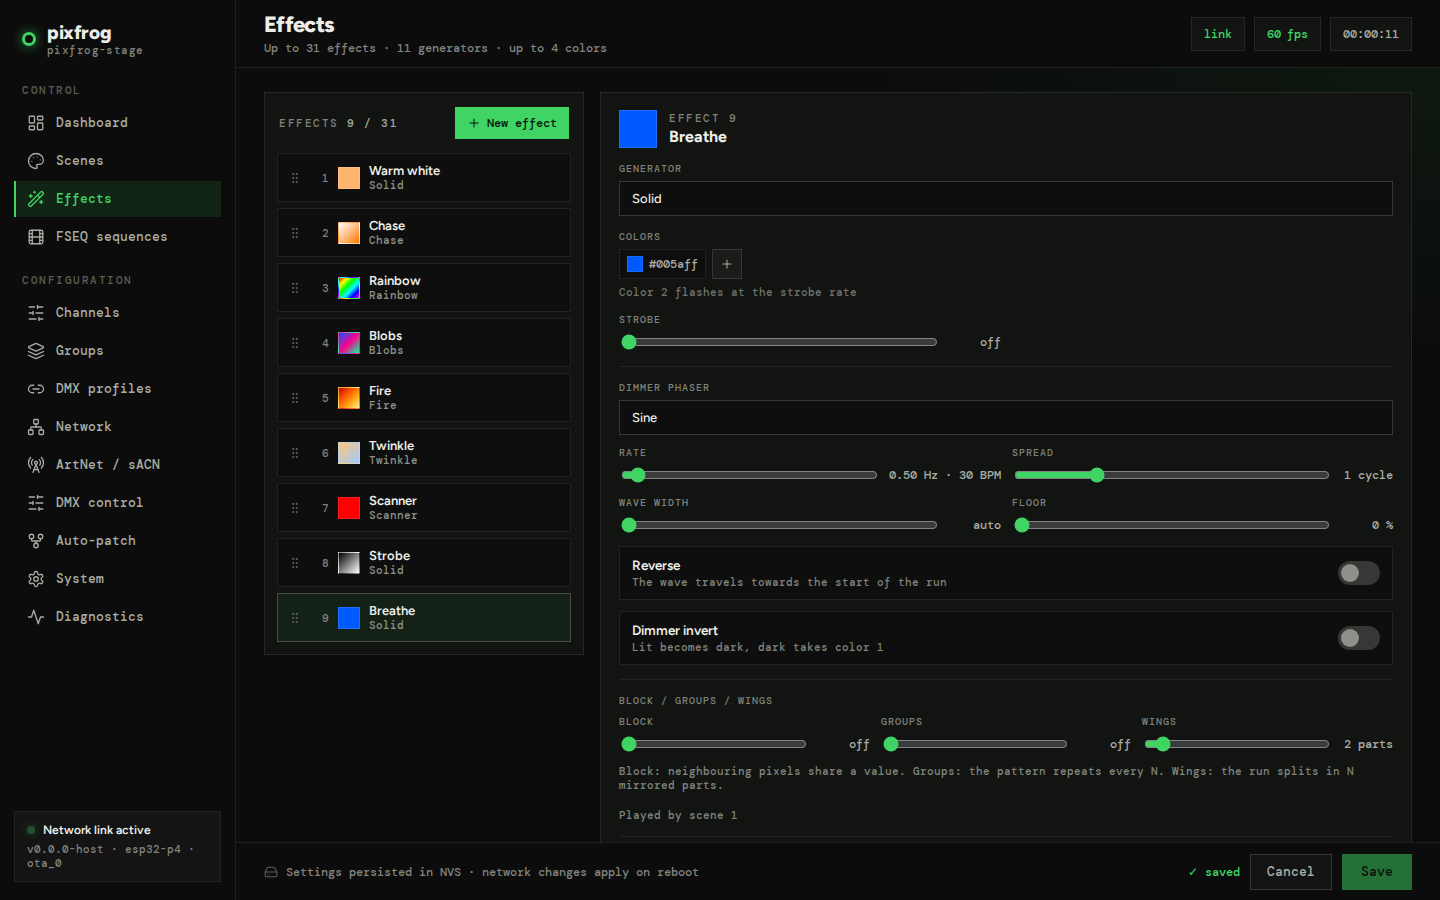
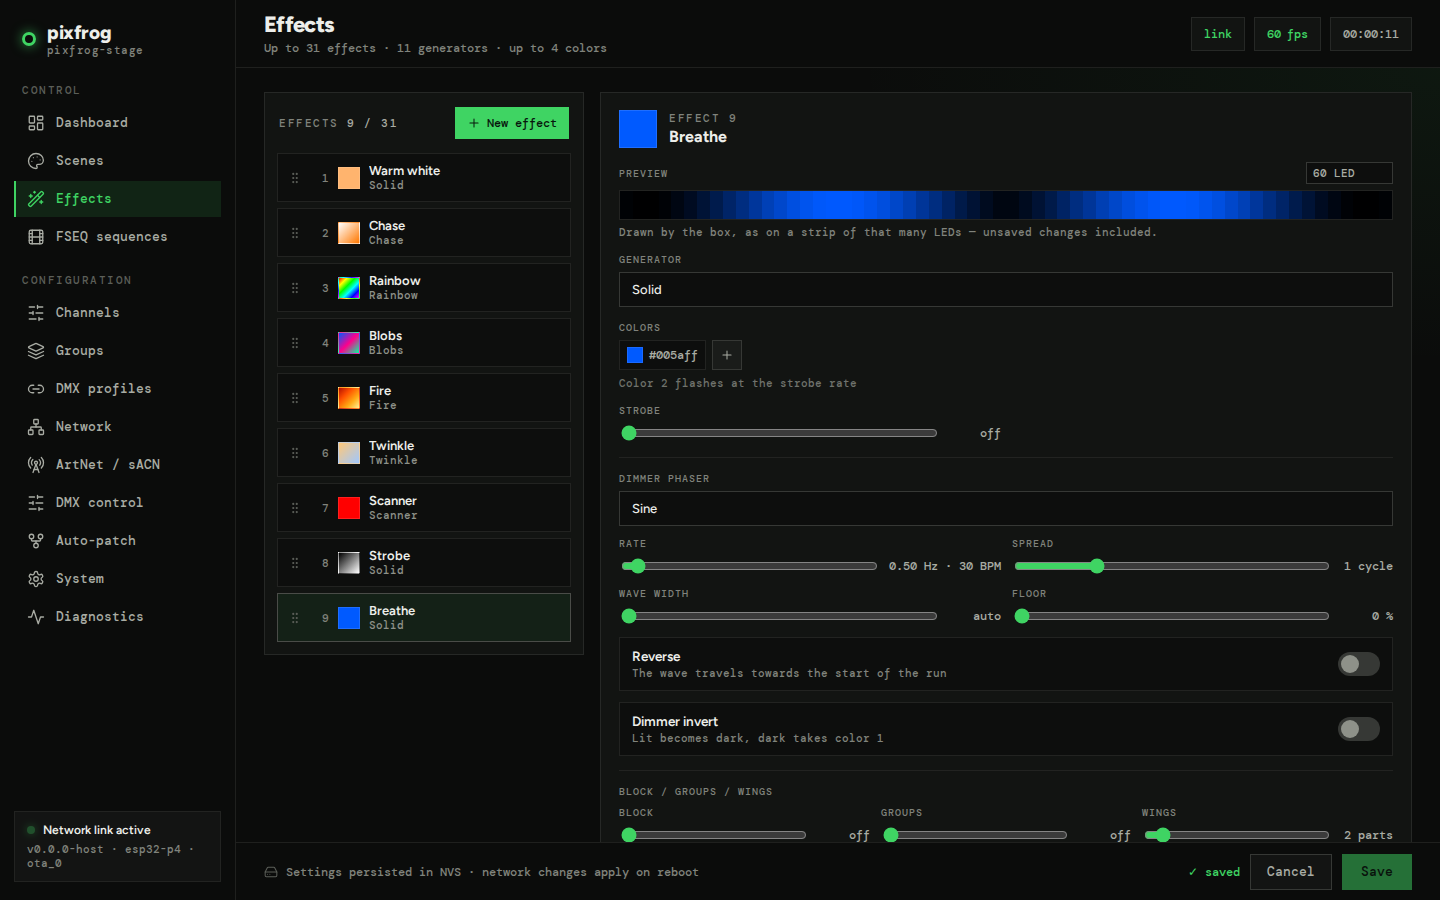
feat(web): an effect preview in the editor, drawn by the box
The effect editor shows the look on a strip of 30, 60 or 144 LEDs, animated.
The frames come from the box: POST /api/effect/preview renders a second of
them with fill_effect_run — the renderer of the outputs — for the effect as
edited, so the strip follows the sliders before anything is saved. Read-only,
no password. The demo approximates it in mock.js.

diff --git a/components/web_config/src/web_ui.html b/components/web_config/src/web_ui.html
@@ -998,7 +998,7 @@ var FR={
   'Fixture profile (OFL)':'Profil de fixture (OFL)','Save first: the file is made from the saved profile':'Enregistrez d’abord : le fichier est fait à partir du profil enregistré',
   'DMX control: no pixel data, each fixture on its profile':'Contrôle DMX : pas de données pixel, chaque fixture sur son profil','DMX profile':'Profil DMX',
   '{n} fixtures':'{n} fixtures','No fixture listed: the whole strip is one fixture, on profile 1':'Aucune fixture listée : tout le ruban est une fixture, sur le profil 1',
-  'PARTS':'PARTIES','Add a part':'Ajouter une partie','Remove this part':'Retirer cette partie','missing effect':'effet manquant',
+  'PREVIEW':'APERÇU','LEDs in the preview':'LEDs de l’aperçu','Drawn by the box, as on a strip of that many LEDs — unsaved changes included.':'Dessiné par le boîtier, comme sur un ruban de ce nombre de LEDs — modifications non enregistrées comprises.','PARTS':'PARTIES','Add a part':'Ajouter une partie','Remove this part':'Retirer cette partie','missing effect':'effet manquant',
   'No part: this scene plays nowhere':'Aucune partie : cette scène ne joue nulle part',
   'Each part plays one effect on its outputs; an output belongs to one part.':'Chaque partie joue un effet sur ses sorties ; une sortie n’appartient qu’à une partie.',
   'Scene added':'Scène ajoutée','Scene deleted':'Scène supprimée','Scene moved':'Scène déplacée','Scene duplicated':'Scène dupliquée',
@@ -1220,6 +1220,50 @@ function cardFooter(dup,del){
 }
 // Scenes whose parts play effect index i (0-based), as "1, 4".
 function fxUsers(i){ var a=[]; SCENES.forEach(function(sc,k){ if(sc.parts.some(function(p){ return p.effect===i; })) a.push(k+1); }); return a; }
+/* Effect preview: the box draws the look itself (POST /api/effect/preview —
+   the renderer of the outputs), a second of frames per request; the page
+   plays them and asks for the next second before they run out. The request
+   carries the effect as edited, so the strip follows the sliders unsaved. */
+var FXP={px:60,fps:30,q:[],f:0,next:0,busy:false,key:'',err:0,timer:null,last:null};
+var FXP_SIZES=[30,60,144];
+function fxPreviewHTML(){
+  var opts=FXP_SIZES.map(function(n){ return '<option value="'+n+'"'+(n===FXP.px?' selected':'')+'>'+n+' LED</option>'; }).join('');
+  return '<div><div style="display:flex;align-items:center;gap:8px"><div class="eyebrow-sm" style="flex:1;margin:0">'+t('PREVIEW')+'</div>'
+    +'<select data-fx-pvsize title="'+esc(t('LEDs in the preview'))+'" style="background:var(--well);border:1px solid var(--line-3);color:var(--fg-2);border-radius:0;padding:3px 6px;font:500 11px \'DM Mono\'">'+opts+'</select></div>'
+    +'<canvas data-fx-preview width="'+FXP.px+'" height="1" style="display:block;width:100%;height:30px;margin-top:6px;background:#050605;border:1px solid var(--line);image-rendering:pixelated"></canvas>'
+    +'<div class="hint" style="margin-top:5px">'+esc(t('Drawn by the box, as on a strip of that many LEDs — unsaved changes included.'))+'</div></div>';
+}
+// What the preview shows: the look, not its name.
+function fxpKey(){ var e=EFFECTS[curEffect]; if(!e) return ''; var b=effectBody(e); delete b.name; return FXP.px+JSON.stringify(b); }
+function fxpDraw(rgb){
+  var cv=document.querySelector('canvas[data-fx-preview]'); if(!cv||!rgb) return;
+  var n=rgb.length/3; if(cv.width!==n) cv.width=n;
+  var cx=cv.getContext('2d'), img=cx.createImageData(n,1);
+  for(var p=0;p<n;p++){ img.data[p*4]=rgb[p*3]; img.data[p*4+1]=rgb[p*3+1]; img.data[p*4+2]=rgb[p*3+2]; img.data[p*4+3]=255; }
+  cx.putImageData(img,0,0);
+}
+function fxpFetch(){
+  var e=EFFECTS[curEffect]; if(!e||FXP.busy) return;
+  var key=FXP.key, px=FXP.px, t0=FXP.next, body=effectBody(e);
+  FXP.busy=true;
+  fetch('/api/effect/preview',{method:'POST',headers:{'Content-Type':'application/json'},body:JSON.stringify({effect:body,pixels:px,frames:FXP.fps,fps:FXP.fps,t:t0})})
+    .then(function(r){ if(!r.ok) throw new Error('http'); return r.arrayBuffer(); })
+    .then(function(buf){ FXP.busy=false; FXP.err=0; if(key!==FXP.key) return;  // edited meanwhile: asked again on the next tick
+      var all=new Uint8Array(buf), fb=px*3; for(var i=0;i+fb<=all.length;i+=fb) FXP.q.push(all.subarray(i,i+fb)); FXP.next=t0+1000; })
+    .catch(function(){ FXP.busy=false; FXP.err=Date.now(); });
+}
+function fxpTick(){
+  if(curScreen!=='effects'||document.hidden||!EFFECTS[curEffect]) return;
+  var key=fxpKey();
+  if(key!==FXP.key){ FXP.key=key; FXP.q=[]; }  // another look: drop what was queued
+  if(FXP.q.length) FXP.last=FXP.q.shift();
+  fxpDraw(FXP.last);  // a rebuilt card gets the last frame back at once
+  if(FXP.q.length<FXP.fps/2 && !FXP.busy && Date.now()-FXP.err>2000) fxpFetch();
+}
+function fxpRun(on){
+  if(FXP.timer){ clearInterval(FXP.timer); FXP.timer=null; }
+  if(on){ FXP.q=[]; FXP.key=''; FXP.timer=setInterval(fxpTick,Math.round(1000/FXP.fps)); }
+}
 function effectCardHTML(e){
   var fx=fxOf(e);
   var opts=FX.map(function(f,i){ return '<option value="'+i+'"'+(i===e.gen?' selected':'')+'>'+esc(t(f.n))+'</option>'; }).join('');
@@ -1238,6 +1282,7 @@ function effectCardHTML(e){
     +'<span data-role="bigsw" style="width:38px;height:38px;border-radius:0;background:'+fxSwatch(e)+';flex:none;border:1px solid rgba(255,255,255,.12)"></span>'
     +'<div style="flex:1;min-width:0"><div class="eyebrow">'+t('EFFECT')+' '+e.n+'</div>'
     +'<input data-fx-name="'+e.n+'" value="'+esc(e.name)+'" placeholder="'+esc(t('Unnamed effect — click to name'))+'" maxlength="15" style="'+NAME_STYLE+'"/></div></div>'
+    +fxPreviewHTML()
     +'<div><div class="eyebrow-sm">'+t('GENERATOR')+'</div><select data-fx-gen="'+e.n+'" style="'+SEL_STYLE+'">'+opts+'</select></div>'
     +colsHtml
     +'<div style="display:grid;grid-template-columns:1fr 1fr;gap:11px">'+sliders+'</div>'
@@ -1543,6 +1588,7 @@ function go(name){
   if(name==='fseq'){ loadFseq(); loadPlaylist(); }
   if(diagTimer){ clearInterval(diagTimer); diagTimer=null; }
   if(name==='diag'){ pollDiag(); diagTimer=setInterval(pollDiag,1500); }
+  fxpRun(name==='effects');
 }
 function navStyle(el,active){
   if(el.tagName!=='DIV'||!el.hasAttribute('data-nav')) return;
@@ -2704,6 +2750,7 @@ function onInput(e){
   if(t.hasAttribute&&t.hasAttribute('data-sc-group')){ var gs=+t.getAttribute('data-sc-group'); SCENES[gs-1].group=parseInt(t.value,10); markDirty('scene'+(gs-1)); renderScene(gs); return; }
   if(t.hasAttribute&&t.hasAttribute('data-pt-rev')){ SCENES[curScene].parts[+t.getAttribute('data-pt-rev')].rev=t.checked; markDirty('scene'+curScene); return; }
   if(t.hasAttribute&&t.hasAttribute('data-pt-mode')){ SCENES[curScene].parts[+t.getAttribute('data-pt-mode')].mode=t.value; markDirty('scene'+curScene); renderScene(curScene+1); return; }
+  if(t.hasAttribute&&t.hasAttribute('data-fx-pvsize')){ FXP.px=parseInt(t.value,10)||60; return; }
   if(t.hasAttribute&&t.hasAttribute('data-fx-name')){ var en=+t.getAttribute('data-fx-name'); EFFECTS[en-1].name=t.value; markDirty('fx'+(en-1)); renderEffectList(); return; }
   if(t.hasAttribute&&t.hasAttribute('data-fx-speed')){ var sn=+t.getAttribute('data-fx-speed'); EFFECTS[sn-1].speed=parseInt(t.value,10)||0; var sv=document.querySelector('[data-fx-speedval="'+sn+'"]'); if(sv) sv.textContent=speedText(EFFECTS[sn-1]); markDirty('fx'+(sn-1)); return; }
   if(t.hasAttribute&&t.hasAttribute('data-fx-param')){ var pn=+t.getAttribute('data-fx-param'); EFFECTS[pn-1].param=parseInt(t.value,10)||0; var pv=document.querySelector('[data-fx-paramval="'+pn+'"]'); if(pv) pv.textContent=paramText(EFFECTS[pn-1]); markDirty('fx'+(pn-1)); return; }

diff --git a/tools/demo/mock.js b/tools/demo/mock.js
@@ -145,6 +145,7 @@
       });
       return ok({ next_free: uni, universes: used, pool: 72 });
     }
+    if (p === '/api/effect/preview') return { __bytes: previewClip(body) };
     if ((m = p.match(/^\/api\/effect\/(\d+)(\/delete)?$/))) {
       var fi = +m[1];
       if (!S.config.effects[fi]) return bad(404, 'no such effect');
@@ -287,6 +288,26 @@
     var i = Math.floor(h * 6) % 6, f = h * 6 - Math.floor(h * 6), q = 1 - f;
     return [[1, f, 0], [q, 1, 0], [0, 1, f], [0, q, 1], [f, 0, 1], [1, 0, q]][i].map(function (x) { return x * 255; });
   }
+  // One pixel of an effect, roughly: the demo has no firmware to draw it.
+  function fxPixel(fx, k, n, now) {
+    var cols = (fx && fx.colors && fx.colors.length ? fx.colors : ['#000000']).map(hex);
+    if (!fx || fx.generator === FX_SOLID) return cols[0];
+    if (fx.generator === 2) return hsv(((k / n) + now / 4000) % 1);
+    return cols[Math.floor(k / 6 + now / 300) % cols.length];
+  }
+  // The effect editor's preview (POST /api/effect/preview): frames × pixels RGB.
+  function previewClip(body) {
+    body = body || {};
+    var fx = Object.assign({}, S.config.effects[body.index] || { generator: FX_SOLID, colors: ['#ffffff'] }, body.effect || {});
+    var n = Math.min(144, Math.max(1, body.pixels || 60)), frames = Math.min(60, Math.max(1, body.frames || 30));
+    var fps = body.fps || 30, t0 = body.t || 0, out = new Uint8Array(frames * n * 3), at = 0;
+    for (var f = 0; f < frames; ++f)
+      for (var k = 0; k < n; ++k) {
+        var rgb = fxPixel(fx, k, n, t0 + f * 1000 / fps);
+        out[at++] = rgb[0]; out[at++] = rgb[1]; out[at++] = rgb[2];
+      }
+    return out;
+  }
   // What output `o` shows now, as up to 64 RGB samples (the firmware's
   // /api/ws preview): identify blink, its scene, else a moving rainbow as if a
   // desk were sending.
@@ -307,10 +328,7 @@
     for (k = 0; k < n; ++k) {
       var rgb;
       if (sc) {
-        var cols = (fx && fx.colors && fx.colors.length ? fx.colors : ['#000000']).map(hex);
-        if (!fx || fx.generator === FX_SOLID) rgb = cols[0];
-        else if (fx.generator === 2) rgb = hsv(((k / n) + now / 4000) % 1);
-        else rgb = cols[Math.floor(k / 6 + now / 300) % cols.length];
+        rgb = fxPixel(fx, k, n, now);
       } else {
         rgb = hsv(((k / n) * 0.6 + o / 8 + now / 9000) % 1);
       }
@@ -338,6 +356,7 @@
     var status = r && r.__status ? r.__status : 200;
     var text = r && r.__text !== undefined ? r.__text : JSON.stringify(r);
     var type = r && r.__type ? r.__type : (r && r.__status ? 'text/plain' : 'application/json');
+    if (r && r.__bytes) return { status: 200, text: r.__bytes, type: 'application/octet-stream' };
     return { status: status, text: text, type: type };
   }
   var realFetch = window.fetch.bind(window);

diff --git a/components/web_config/src/api_show.cpp b/components/web_config/src/api_show.cpp
@@ -827,12 +827,61 @@ static char g_scene_body[640];
 //                               effects shift down by one, the scenes follow
 // POST /api/effects/add         append (optional effect JSON body) → {"index":n}
 // POST /api/effects/move        {"from":a,"to":b}
+// POST /api/effect/preview      {"effect":{…}, "index":n, "pixels":p, "frames":f,
+//                               "fps":r, "t":ms} → f × p × 3 bytes of RGB
+
+// The effect editor's preview: `frames` frames of an effect on `pixels` RGB
+// pixels, `fps` apart from time `t`, drawn by the renderer the outputs use.
+// The look is the bank's effect `index` (else a plain white one) with the
+// fields of "effect" over it, so unsaved edits show. Changes nothing: no
+// password asked.
+constexpr uint16_t kPreviewMaxPixels = 144;
+constexpr uint16_t kPreviewMaxFrames = 60;
+
+static esp_err_t handle_effect_preview(httpd_req_t* req) {
+    if (!read_body(req, g_scene_body, sizeof(g_scene_body) - 1))
+        return send_err(req, 400, "body too large or empty");
+    cJSON* j = cJSON_Parse(g_scene_body);
+    if (!j) return send_err(req, 400, "invalid JSON");
+    config::Effect e{};
+    e.num_colors = 1;
+    std::memset(e.colors[0], 255, 3);
+    auto num = [&](const char* key, double lo, double hi, double fallback) {
+        const cJSON* n = cJSON_GetObjectItemCaseSensitive(j, key);
+        return cJSON_IsNumber(n) && n->valuedouble >= lo && n->valuedouble <= hi ? n->valuedouble
+                                                                                 : fallback;
+    };
+    const double index = num("index", 0, static_cast<double>(config::kMaxEffects) - 1, -1);
+    if (index >= 0) config::copy_effect(static_cast<size_t>(index), e);
+    const cJSON* je = cJSON_GetObjectItemCaseSensitive(j, "effect");
+    if (cJSON_IsObject(je)) apply_effect_json(je, e);
+    const auto pixels = static_cast<uint16_t>(num("pixels", 1, kPreviewMaxPixels, 60));
+    const auto frames = static_cast<uint16_t>(num("frames", 1, kPreviewMaxFrames, 30));
+    const auto fps    = static_cast<uint32_t>(num("fps", 1, 60, 30));
+    const auto t0     = static_cast<uint64_t>(num("t", 0, 1e15, 0));
+    cJSON_Delete(j);
+
+    const size_t frame_bytes = static_cast<size_t>(pixels) * 3;
+    const size_t bytes       = frame_bytes * frames;  // 26 kB at most: PSRAM, for the request
+    auto* buf                = static_cast<uint8_t*>(heap_caps_malloc(bytes, MALLOC_CAP_SPIRAM));
+    if (!buf) buf = static_cast<uint8_t*>(malloc(bytes));
+    if (!buf) return send_err(req, 500, "out of memory");
+    for (uint32_t f = 0; f < frames; ++f)
+        dmx::render_effect_preview(e, pixels, t0 + f * 1000u / fps, buf + f * frame_bytes,
+                                   frame_bytes);
+    httpd_resp_set_type(req, "application/octet-stream");
+    const esp_err_t rc = httpd_resp_send(req, reinterpret_cast<const char*>(buf),
+                                         static_cast<ssize_t>(bytes));
+    heap_caps_free(buf);
+    return rc;
+}
 
 esp_err_t handle_post_effect(httpd_req_t* req) {
+    const char* tail = req->uri + strlen("/api/effect/");
+    if (std::strncmp(tail, "preview", 7) == 0) return handle_effect_preview(req);
     if (!require_auth(req)) return ESP_OK;
 
-    const char* tail = req->uri + strlen("/api/effect/");
-    const int idx    = atoi(tail);
+    const int idx = atoi(tail);
     if (idx < 0 || static_cast<size_t>(idx) >= config::num_effects())
         return send_err(req, 404, "no such effect");
 

diff --git a/tests/harness/test_web.cpp b/tests/harness/test_web.cpp
@@ -362,6 +362,47 @@ TEST(out_of_range_numbers_are_ignored_not_wrapped) {
     EXPECT_EQ(config::get_global().refresh_rate_hz, g.refresh_rate_hz);
 }
 
+// The effect editor's preview: frames of RGB drawn by the outputs' renderer,
+// the unsaved fields of "effect" over the bank's own, without a password.
+TEST(effect_preview_renders_frames_with_unsaved_edits) {
+    const auto def = post("/api/effect/preview", "{}");
+    EXPECT_EQ(def.status, 200);
+    EXPECT_EQ(def.body.size(), 30u * 60u * 3u);         // a second at 30 fps on 60 LEDs
+    EXPECT_EQ(static_cast<uint8_t>(def.body[0]), 255);  // no look given: plain white
+
+    // A solid with a colour of its own, on 8 LEDs, 2 frames.
+    const auto solid = post("/api/effect/preview",
+                            "{\"effect\":{\"generator\":0,\"colors\":[\"#102030\"],\"speed\":0},"
+                            "\"pixels\":8,\"frames\":2,\"fps\":10}");
+    EXPECT_EQ(solid.body.size(), 2u * 8u * 3u);
+    for (size_t px = 0; px < 16; ++px) {
+        EXPECT_EQ(static_cast<uint8_t>(solid.body[px * 3]), 0x10);
+        EXPECT_EQ(static_cast<uint8_t>(solid.body[px * 3 + 2]), 0x30);
+    }
+    // The bank's chase with an edited colour: it moves from a frame to the next.
+    const auto chase = post("/api/effect/preview",
+                            "{\"index\":1,\"effect\":{\"colors\":[\"#00ff00\"],\"speed\":100},"
+                            "\"pixels\":40,\"frames\":10,\"fps\":10,\"t\":5000}");
+    EXPECT_EQ(chase.body.size(), 10u * 40u * 3u);
+    EXPECT_TRUE(chase.body.find('\xff') != std::string::npos);  // the edited green is there
+    EXPECT_TRUE(chase.body.substr(0, 120) != chase.body.substr(120, 120));
+    EXPECT_STREQ(config::get_effect(1).name, "Chase");  // and the bank is untouched
+    EXPECT_EQ(config::get_effect(1).colors[0][0], 255);
+    // Out of range sizes fall back to the defaults; a broken body is refused.
+    EXPECT_EQ(post("/api/effect/preview", "{\"pixels\":5000,\"frames\":0}").body.size(),
+              30u * 60u * 3u);
+    EXPECT_EQ(post("/api/effect/preview", "{nope").status, 400);
+    EXPECT_EQ(post("/api/effect/preview", "").status, 400);
+    // Read-only: a password does not gate it.
+    config::set_web_password("pa55");
+    EXPECT_EQ(post("/api/effect/preview", "{\"pixels\":4,\"frames\":1}").body.size(), 12u);
+    EXPECT_EQ(post("/api/effect/0", "{\"speed\":3}").status, 401);
+    config::set_web_password("");
+    uint8_t rgb[9];
+    EXPECT_EQ(dmx::render_effect_preview(config::get_effect(0), 3, 0, rgb, sizeof(rgb)), 3u);
+    EXPECT_EQ(dmx::render_effect_preview(config::get_effect(0), 4, 0, rgb, sizeof(rgb)), 0u);
+}
+
 TEST(effect_endpoints_manage_the_bank) {
     const size_t n = config::num_effects();
     Json listed(get("/api/config").body);

diff --git a/tests/web/test_spa.py b/tests/web/test_spa.py
@@ -209,6 +209,43 @@ def test_add_rename_duplicate_and_delete_an_effect(page, device):
     assert len(device.get("/api/config")["effects"]) == 9
 
 
+def test_effect_preview_plays_what_the_box_draws(page, device):
+    nav(page, "effects")
+    px = "(function(){var c=document.querySelector('canvas[data-fx-preview]');" \
+         "var d=c.getContext('2d').getImageData(0,0,c.width,1).data;return [c.width].concat(Array.from(d));})()"
+
+    def strip():
+        d = page.evaluate(px)
+        return d[0], [tuple(d[1 + i * 4:4 + i * 4]) for i in range(d[0])]
+
+    def wait_for(pred):
+        for _ in range(60):
+            n, leds = strip()
+            if pred(n, leds):
+                return n, leds
+            time.sleep(0.05)
+        raise AssertionError(f"preview never matched: {strip()}")
+
+    # Effect 1 is the factory warm white: every LED of the strip shows it.
+    n, leds = wait_for(lambda n, leds: leds[0] == (255, 180, 110))
+    assert n == 60 and set(leds) == {(255, 180, 110)}
+    # Edited, not saved: the preview follows, the box keeps its effect.
+    page.locator("[data-fx-gen]").select_option("2")  # rainbow
+    wait_for(lambda n, leds: len(set(leds)) > 10)
+    assert device.get("/api/config")["effects"][0]["generator"] == 0
+    page.locator('[data-fx-row="1"]').click()  # the factory chase: it moves
+    _, first = wait_for(lambda n, leds: (255, 255, 255) in leds and (0, 0, 0) in leds)
+    wait_for(lambda n, leds: leds != first and (255, 255, 255) in leds)
+    page.locator("[data-fx-pvsize]").select_option("144")
+    wait_for(lambda n, leds: n == 144)
+    nav(page, "scenes")  # leaving the screen stops the requests
+    time.sleep(0.3)
+    seen = []
+    page.on("request", lambda r: seen.append(r.url) if "/api/effect/preview" in r.url else None)
+    time.sleep(1.5)
+    assert not seen
+
+
 def test_drag_an_effect_and_the_scenes_follow(page, device):
     nav(page, "effects")
     first = device.get("/api/config")["effects"][0]["name"]

diff --git a/tests/fuzz/make_seeds.py b/tests/fuzz/make_seeds.py
@@ -255,7 +255,8 @@ ROUTES = ["/api/config", "/api/global", "/api/channel", "/api/restore", "/api/sc
           "/api/loglevel", "/api/ota", "GET /api/config", "GET /api/status", "GET /api/backup",
           "GET /api/fseq/files", "GET /api/logs", "/api/show", "/api/control",
           "GET /api/control/fixture", "/api/effect", "/api/effects/add", "/api/effects/move",
-          "/api/groups", "/api/profiles", "GET /api/profile/2/fixture"]
+          "/api/groups", "/api/profiles", "GET /api/profile/2/fixture",
+          "/api/effect/preview"]
 R = {r: i for i, r in enumerate(ROUTES)}
 WEB = [
     (R["/api/global"], 0, '{"refresh_hz":45,"short_name":"rig-a"}'),
@@ -308,6 +309,9 @@ WEB = [
     (R["/api/scene"], 1, '{"group":0}'),
     (R["/api/control"], 0, '{"slots":[{"fn":"bank","group":0},{"fn":"direction","group":1},'
                            '{"fn":"fixmode","mask":3}]}'),
+    (R["/api/effect/preview"], 0, '{"index":1,"effect":{"generator":8,"colors":["#ff0000","#0000ff"],'
+                                  '"speed":40,"phaser":{"wave":"sin","rate":20,"spread":16},'
+                                  '"matricks":{"wings":2}},"pixels":48,"frames":12,"fps":24,"t":90000}'),
 ]
 
 

diff --git a/components/dmx_manager/include/dmx_manager.h b/components/dmx_manager/include/dmx_manager.h
@@ -365,6 +365,13 @@ const uint8_t* pixel_front_buffer(size_t ch);
 // task; a frame swapped mid-read only tears the preview. 0 for an Off channel.
 size_t output_preview(size_t ch, uint8_t* rgb, size_t max_samples);
 
+// One frame of `effect` on a bare run of `pixels` RGB pixels at `t_ms`, into
+// `rgb` (3 bytes a pixel) — the very renderer the outputs use, for the web
+// UI's effect preview. Touches no state: any task. Returns the pixels drawn, 0
+// when they do not fit `cap` bytes.
+size_t render_effect_preview(const config::Effect& effect, uint16_t pixels, uint64_t t_ms,
+                             uint8_t* rgb, size_t cap);
+
 // Copy DMX bytes for channel `ch` from the front universe bank into
 // `pixel_back_buffer(ch)`. Spans multiple universes if a channel's pixel
 // data straddles a universe boundary. Applies `dmx_start` as the per-channel

diff --git a/components/dmx_manager/src/dmx_manager.cpp b/components/dmx_manager/src/dmx_manager.cpp
@@ -1226,6 +1226,13 @@ bool decode_pixels_for_channel(size_t ch) {
     return true;
 }
 
+size_t render_effect_preview(const config::Effect& effect, uint16_t pixels, uint64_t t_ms,
+                             uint8_t* rgb, size_t cap) {
+    if (!rgb || pixels == 0 || static_cast<size_t>(pixels) * 3 > cap) return 0;
+    logic::fill_effect_run(rgb, cap, pixels, 3, effect, t_ms);
+    return pixels;
+}
+
 bool is_channel_capacity_ok(size_t ch) {
     if (ch >= config::kNumChannels) return false;
     return g_channel_capacity_ok[ch];

diff --git a/tests/fuzz/fuzz_web_api.cpp b/tests/fuzz/fuzz_web_api.cpp
@@ -52,6 +52,7 @@ const Route kRoutes[] = {
     { "POST", "/api/groups", false },
     { "POST", "/api/profiles", false },
     { "GET", "/api/profile/2/fixture", false },
+    { "POST", "/api/effect/preview", false },
 };
 constexpr size_t kRouteCount = sizeof(kRoutes) / sizeof(kRoutes[0]);
 

diff --git a/docs/SHOW_CONTROL.md b/docs/SHOW_CONTROL.md
@@ -44,7 +44,12 @@ its first part's effect along the group, in that part's fixture mode, from the
 far end if the part says so. Give the scene a default group ("Plays on") and
 ▶, the boot scene and the menu start it there.
 
-![The effect editor in the web UI: generator, colours, dimmer phaser, Block / Groups / Wings](img/web-effects.png)
+![The effect editor in the web UI: preview, generator, colours, dimmer phaser, Block / Groups / Wings](img/web-effects.png)
+
+The editor's **preview** strip is drawn by the box itself, with the renderer
+of the outputs, on 30, 60 or 144 LEDs: what it shows is what a strip of that
+length plays, unsaved changes included (`POST /api/effect/preview`). It needs
+no output and no scene, so a look can be built without touching the rig.
 
 The eleven generators, each over six seconds on a 144-pixel line (time going
 right, pixel 0 at the top), rendered by the firmware's own `fill_effect_run`

diff --git a/AGENT.md b/AGENT.md
@@ -86,7 +86,11 @@ behind the optional password):
   output, blinked one after the other),
   `POST /api/autopatch`, `GET /api/backup`, `POST /api/restore`
 - effect bank: `POST /api/effect/{n}[/delete]` (`{name, generator, colors, speed, param}`;
-  delete answers 409 while a scene plays the effect), `POST /api/effects/add|move`
+  delete answers 409 while a scene plays the effect), `POST /api/effects/add|move`,
+  `POST /api/effect/preview` (`{effect, index, pixels, frames, fps, t}` → frames × pixels × 3
+  bytes of RGB drawn by `fill_effect_run`; read-only, no password)
+- scenes also take `"group"` (default fixture group, -1 = none) and `"reverse"` on a part;
+  play takes `{"group":g}` as well
 - scenes: `POST /api/scene/{n}[/play|/stop|/delete]` (`{name, parts:[{mask, effect,
   fixture_mode}]}`; play takes `{"outputs":mask}`), `POST /api/scenes/add|move|stop`
 - groups: `POST /api/groups`
